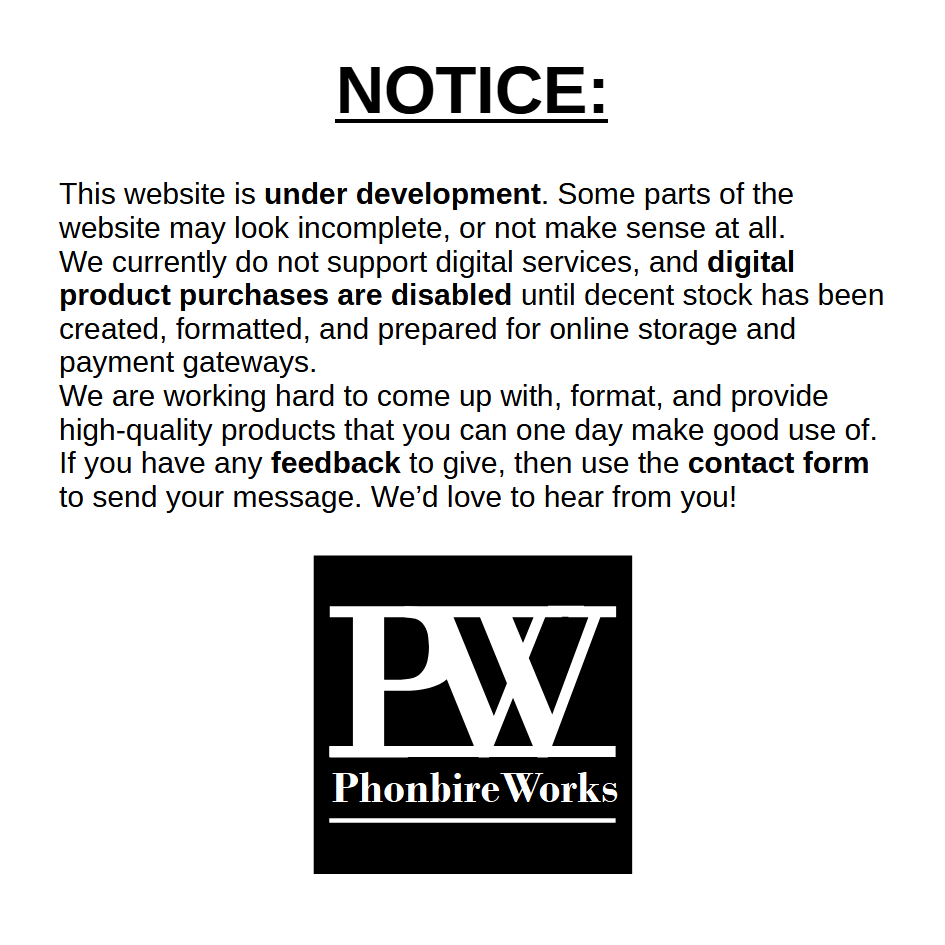
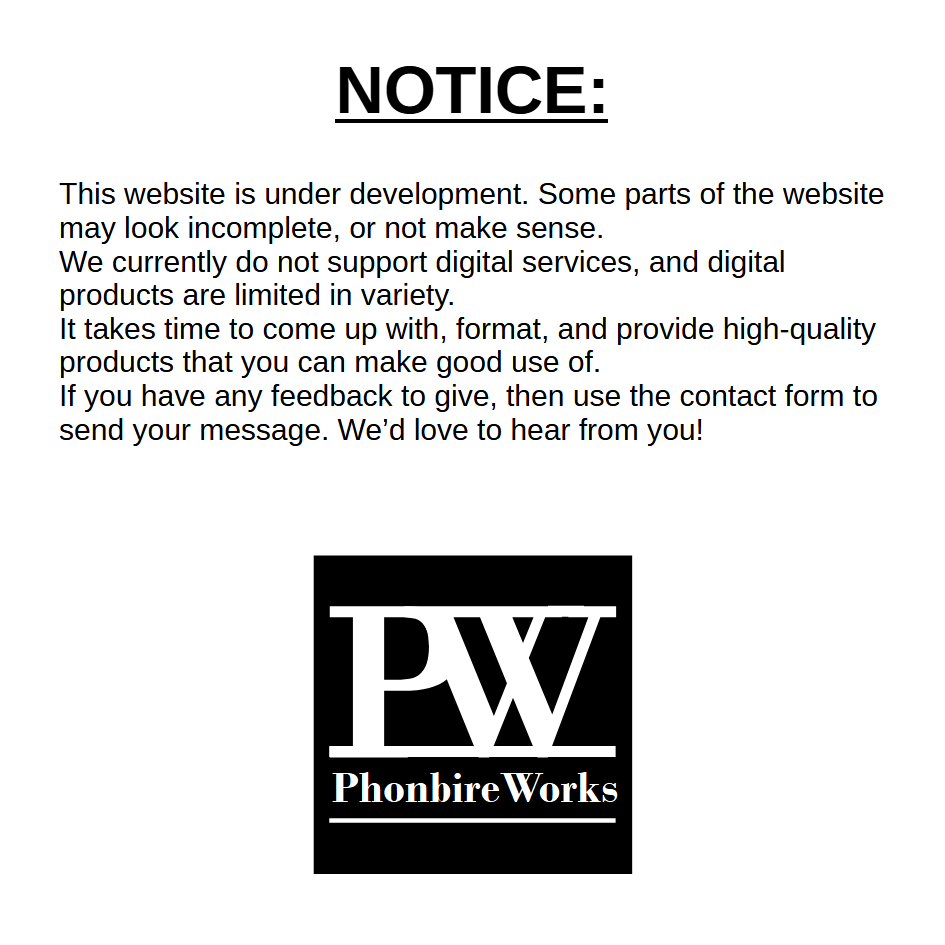
Add files via upload

Changed region(s): [[0.0614, 0.1841, 0.9513, 0.5524], [0.3683, 0.0614, 0.3989, 0.1228]]

diff --git a/category_pages/resume_templates/resume_templates.html b/category_pages/resume_templates/resume_templates.html
@@ -90,10 +90,6 @@
                     <div class="swiper-button-prev"></div>
                     <div class="swiper-button-next"></div>
                 </div>
-                <div style="display: flex; justify-content: flex-start; width: 100%;">
-                    <img src="../../images/zip.svg" alt="" style="width: 100%; height: 100%; max-width: 2rem; margin-left: 1rem;">
-                    <img src="../../images/odg.svg" alt="" style="width: 100%; height: 100%; max-width: 2rem; margin-left: 1rem;">
-                </div>
                 <div style="display: flex; flex-direction: row; width: 100%; justify-content: space-between; align-items: center">
                     <p style="color: #000000; font-size: 2rem; margin: 1%" class="text2"><b>DESIGN 1</b></p>
                     <p style="color: #128251; font-size: 2rem; margin: 1%" class="text2"><b>$5.00</b></p>
@@ -106,32 +102,7 @@
             <br><br><br>
 
 
-            <!-- PRODUCT ITEM STARTS -->
-            <div class="gc">
-                <!-- GALLERY SCROLL CONTAINER STARTS -->
-                <div class="gallery-container">
-                    <button class="nav-button left" id="scrollLeft">&#10094;</button>
-                    <div class="gallery" id="gallery">
-                        <img src="../resume_templates/design_1/1.png">
-                        <img src="../resume_templates/design_1/2.png">
-                        <img src="../resume_templates/design_1/3.png">
-                        <!-- Add more images as needed -->
-                    </div>
-                    <button class="nav-button right" id="scrollRight">&#10095;</button>
-                </div>
-                <!-- GALLERY SCROLL CONTAINER ENDS -->
-                <div style="display: flex; justify-content: flex-start; width: 100%;">
-                    <img src="../../images/zip.svg" alt="" style="width: 100%; height: 100%; max-width: 2rem; margin-left: 1rem;">
-                    <img src="../../images/odg.svg" alt="" style="width: 100%; height: 100%; max-width: 2rem; margin-left: 1rem;">
-                </div>
-                <div style="display: flex; flex-direction: row; width: 100%; justify-content: space-between; align-items: center">
-                    <p style="color: #000000; font-size: 2rem; margin: 1%" class="text2"><b>DESIGN 1</b></p>
-                    <p style="color: #128251; font-size: 2rem; margin: 1%" class="text2"><b>$25.00</b></p>
-                </div>
-                <a href="https://www.paypal.com/ncp/payment/2G8M7HPZVPTV8" target="_blank"><button class="button3 shake-horizontal">Buy Now</button></a>
-            </div>
-            <!-- PRODUCT ITEM ENDS -->
-
+            
 
 
 

diff --git a/category_pages/monthly_planners/monthly_planners.html b/category_pages/monthly_planners/monthly_planners.html
@@ -94,10 +94,6 @@
                     <div class="swiper-button-prev"></div>
                     <div class="swiper-button-next"></div>
                 </div>
-                <div style="display: flex; justify-content: flex-start; width: 100%;">
-                    <img src="../../images/zip.svg" alt="" style="width: 100%; height: 100%; max-width: 2rem; margin-left: 1rem;">
-                    <img src="../../images/pdf.svg" alt="" style="width: 100%; height: 100%; max-width: 2rem; margin-left: 1rem;">
-                </div>
                 <div style="display: flex; flex-direction: row; width: 100%; justify-content: space-between; align-items: center">
                     <p style="color: #000000; font-size: 2rem; margin: 1%" class="text2"><b>DESIGN 1</b></p>
                     <p style="color: #128251; font-size: 2rem; margin: 1%" class="text2"><b>$15.00</b></p>

diff --git a/category_pages/journals/journals.html b/category_pages/journals/journals.html
@@ -113,7 +113,7 @@
 
 
 
-            
+
 
 <!-- SWIPER STARTS -->
 <div class="container">
@@ -132,10 +132,6 @@
         <div class="swiper-pagination"></div>
         <div class="swiper-button-prev"></div>
         <div class="swiper-button-next"></div>
-    </div>
-    <div style="display: flex; justify-content: flex-start; width: 100%;">
-        <img src="../../images/zip.svg" alt="" style="width: 100%; height: 100%; max-width: 2rem; margin-left: 1rem;">
-        <img src="../../images/pdf.svg" alt="" style="width: 100%; height: 100%; max-width: 2rem; margin-left: 1rem;">
     </div>
     <div style="display: flex; flex-direction: row; width: 100%; justify-content: space-between; align-items: center">
         <p style="color: #000000; font-size: 2rem; margin: 1%" class="text2"><b>DESIGN 1</b></p>

diff --git a/index.html b/index.html
@@ -101,7 +101,7 @@ window.location.replace("maintenance.html");
 <!-- POPUP ADVERT STARTS -->
 <div class="close">
     <div id="popup" class="popup">
-        <a href="category_pages/journals/journals.html"><img src="popup_adverts/ad2.png" alt=""></a>
+        <a href="category_pages/journals/journals.html"><img src="popup_adverts/NOTICE.webp" alt=""></a>
     </div>
 </div>
 <!-- POPUP ADVERT ENDS -->
